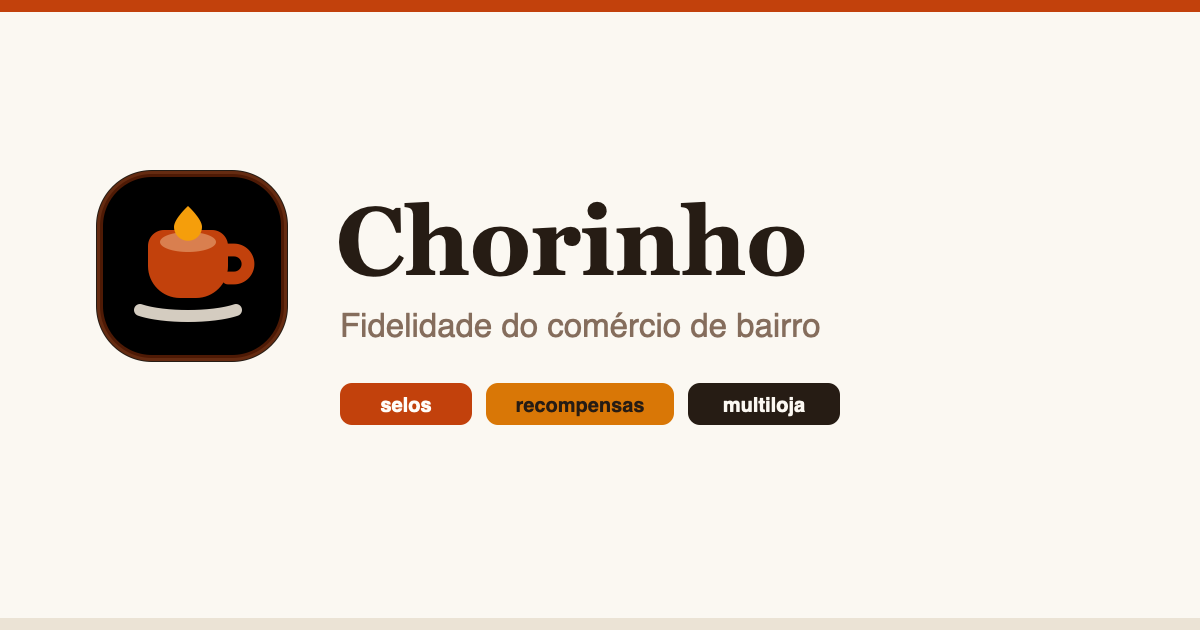
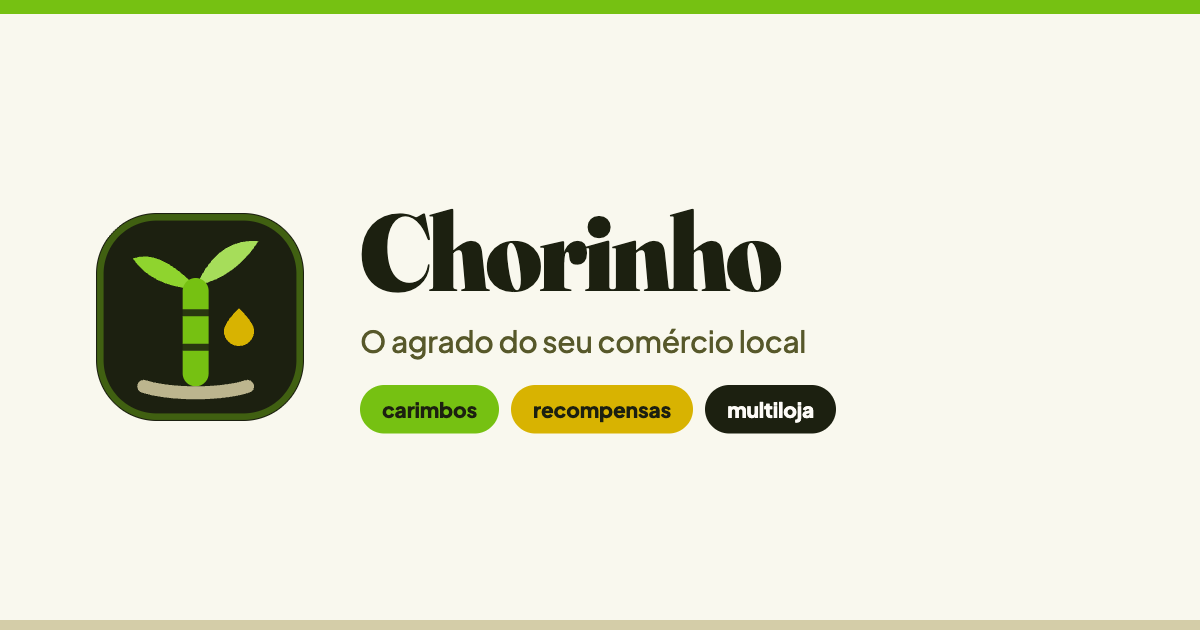
feat(marca): og.png na paleta nova
A imagem de compartilhamento ainda era a terracota com a xicara de cafe: a
marca mudou para o pe de cana e o verde, e quem via o link compartilhado
recebia a promessa de um aplicativo que nao existe mais.

O SVG do logo e copia literal de components/BrandLogo.tsx e as cores saem de
styles/globals.css. O verde da cana leva tinta escura, como manda o
DESIGN_SYSTEM.md — nao e escolha estetica avulsa, e a regra de contraste.

Trocado tambem "selos" por "carimbos" nas pilulas: selo neste produto e o
premio de conquista, nao a marca do balcao, e a imagem estava ensinando o
vocabulario errado antes mesmo de a pessoa abrir o site.

O HTML que gera a imagem fica versionado em scripts/og.html, com o passo a
passo no cabecalho. Quando a paleta mudar de novo, refazer e reabrir o arquivo,
nao redesenhar num editor.

diff --git a/packages/nextjs/scripts/og.html b/packages/nextjs/scripts/og.html
@@ -1,0 +1,121 @@
+<!doctype html>
+<html lang="pt-BR">
+<head>
+<meta charset="utf-8">
+<link rel="preconnect" href="https://fonts.googleapis.com">
+<link rel="preconnect" href="https://fonts.gstatic.com" crossorigin>
+<link href="https://fonts.googleapis.com/css2?family=Fraunces:ital,opsz,wght@0,9..144,400..900&family=Plus+Jakarta+Sans:wght@400;500;600;700;800&display=block" rel="stylesheet">
+<!--
+  A fonte do public/og.png — a imagem que aparece quando alguem compartilha o
+  link do Chorinho, e no topo do README.
+
+  Existe como HTML, e nao como PNG solto, porque a marca muda: quando a paleta
+  ou o logo mudarem, refazer a imagem e reabrir este arquivo, nao redesenhar do
+  zero num editor. O SVG do logo e copia literal de components/BrandLogo.tsx e
+  as cores sao as de styles/globals.css — se divergirem, a imagem passa a
+  prometer uma marca que o aplicativo nao tem.
+
+  Para refazer (1200x630, o formato que as redes cortam):
+
+    cp packages/nextjs/scripts/og.html packages/nextjs/public/_og-temp.html
+    # abra http://localhost:3000/_og-temp.html num navegador em 1200x630,
+    # capture a tela inteira e salve como packages/nextjs/public/og.png
+    rm packages/nextjs/public/_og-temp.html
+
+  O arquivo temporario em public/ e necessario porque navegador recusa `file:`
+  para fontes remotas; servir pelo Next resolve sem instalar nada.
+-->
+<style>
+  /* Tokens copiados de styles/globals.css — a imagem precisa ser a mesma
+     marca da tela, nao uma aproximacao de memoria. */
+  :root {
+    --cana:       #76c112;
+    --cana-clara: #8fd42e;
+    --tinta:      #1c2010;
+    --caldo:      #d8b301;
+    --papel:      #f9f8ee;
+    --kraft:      #fdfbf7;
+    --kraft-ink:  #57582a;
+    --bagaco:     #cec69c;
+    --brand-ink:  #376b04;
+  }
+  * { margin: 0; padding: 0; box-sizing: border-box; }
+  body {
+    width: 1200px; height: 630px;
+    background: var(--papel);
+    font-family: "Plus Jakarta Sans", system-ui, sans-serif;
+    display: flex; flex-direction: column;
+    overflow: hidden;
+  }
+
+  /* A faixa de cana no topo, do mesmo jeito que a versao antiga tinha a faixa
+     laranja: e o que da identidade a miniatura quando ela aparece pequena num
+     feed. */
+  .faixa { height: 14px; background: var(--cana); flex: none; }
+
+  .corpo { flex: 1; display: flex; align-items: center; gap: 56px; padding: 0 96px; }
+
+  .ladrilho { width: 208px; height: 208px; flex: none; }
+  .ladrilho svg { width: 100%; height: 100%; display: block; }
+
+  .texto { display: flex; flex-direction: column; gap: 18px; min-width: 0; }
+
+  h1 {
+    font-family: "Fraunces", Georgia, serif;
+    font-weight: 900;
+    font-size: 108px;
+    line-height: 0.95;
+    letter-spacing: -0.03em;
+    color: var(--tinta);
+    font-variation-settings: "opsz" 120;
+  }
+
+  .apoio { font-size: 30px; font-weight: 500; color: var(--kraft-ink); letter-spacing: -0.01em; }
+
+  .selos { display: flex; gap: 12px; margin-top: 8px; }
+  .selo {
+    font-size: 21px; font-weight: 800; letter-spacing: -0.01em;
+    padding: 11px 22px; border-radius: 999px; white-space: nowrap;
+  }
+  /* Verde da cana e claro, entao recebe tinta escura — a regra do
+     DESIGN_SYSTEM.md, nao uma escolha estetica avulsa. */
+  .selo.cana  { background: var(--cana);  color: var(--tinta); }
+  .selo.caldo { background: var(--caldo); color: var(--tinta); }
+  .selo.tinta { background: var(--tinta); color: var(--kraft); }
+
+  /* Chao de bagaco: a mesma linha que fecha o logo, repetida na base da peca. */
+  .rodape { height: 10px; background: var(--bagaco); opacity: 0.85; flex: none; }
+</style>
+</head>
+<body>
+  <div class="faixa"></div>
+
+  <div class="corpo">
+    <div class="ladrilho">
+      <!-- SVG identico ao components/BrandLogo.tsx -->
+      <svg viewBox="0 0 48 48" fill="none" xmlns="http://www.w3.org/2000/svg" role="img" aria-label="Chorinho">
+        <rect width="48" height="48" rx="14" fill="#1C2010"/>
+        <rect x="1" y="1" width="46" height="46" rx="13" stroke="#76C112" stroke-opacity="0.4" stroke-width="1.5"/>
+        <path d="M22 16C17 11 12.5 9 8.5 10.5C11.5 15 16.5 17 22 17.5V16Z" fill="#8FD42E"/>
+        <path d="M24 15C27.5 8.5 32 6 37.5 6.5C34 12 29 15.5 24 16.5V15Z" fill="#A6DD5A"/>
+        <rect x="20" y="15" width="6" height="25" rx="3" fill="#76C112"/>
+        <path d="M20 23H26M20 31H26" stroke="#1C2010" stroke-width="1.6" stroke-linecap="round" stroke-opacity="0.85"/>
+        <path d="M33 22C33 22 36.5 25.2 36.5 27.2C36.5 29.133 34.933 30.7 33 30.7C31.067 30.7 29.5 29.133 29.5 27.2C29.5 25.2 33 22 33 22Z" fill="#D8B301"/>
+        <path d="M11 40C17 42 29 42 35 40" stroke="#CEC69C" stroke-width="3" stroke-linecap="round" stroke-opacity="0.9"/>
+      </svg>
+    </div>
+
+    <div class="texto">
+      <h1>Chorinho</h1>
+      <p class="apoio">O agrado do seu comércio local</p>
+      <div class="selos">
+        <span class="selo cana">carimbos</span>
+        <span class="selo caldo">recompensas</span>
+        <span class="selo tinta">multiloja</span>
+      </div>
+    </div>
+  </div>
+
+  <div class="rodape"></div>
+</body>
+</html>
